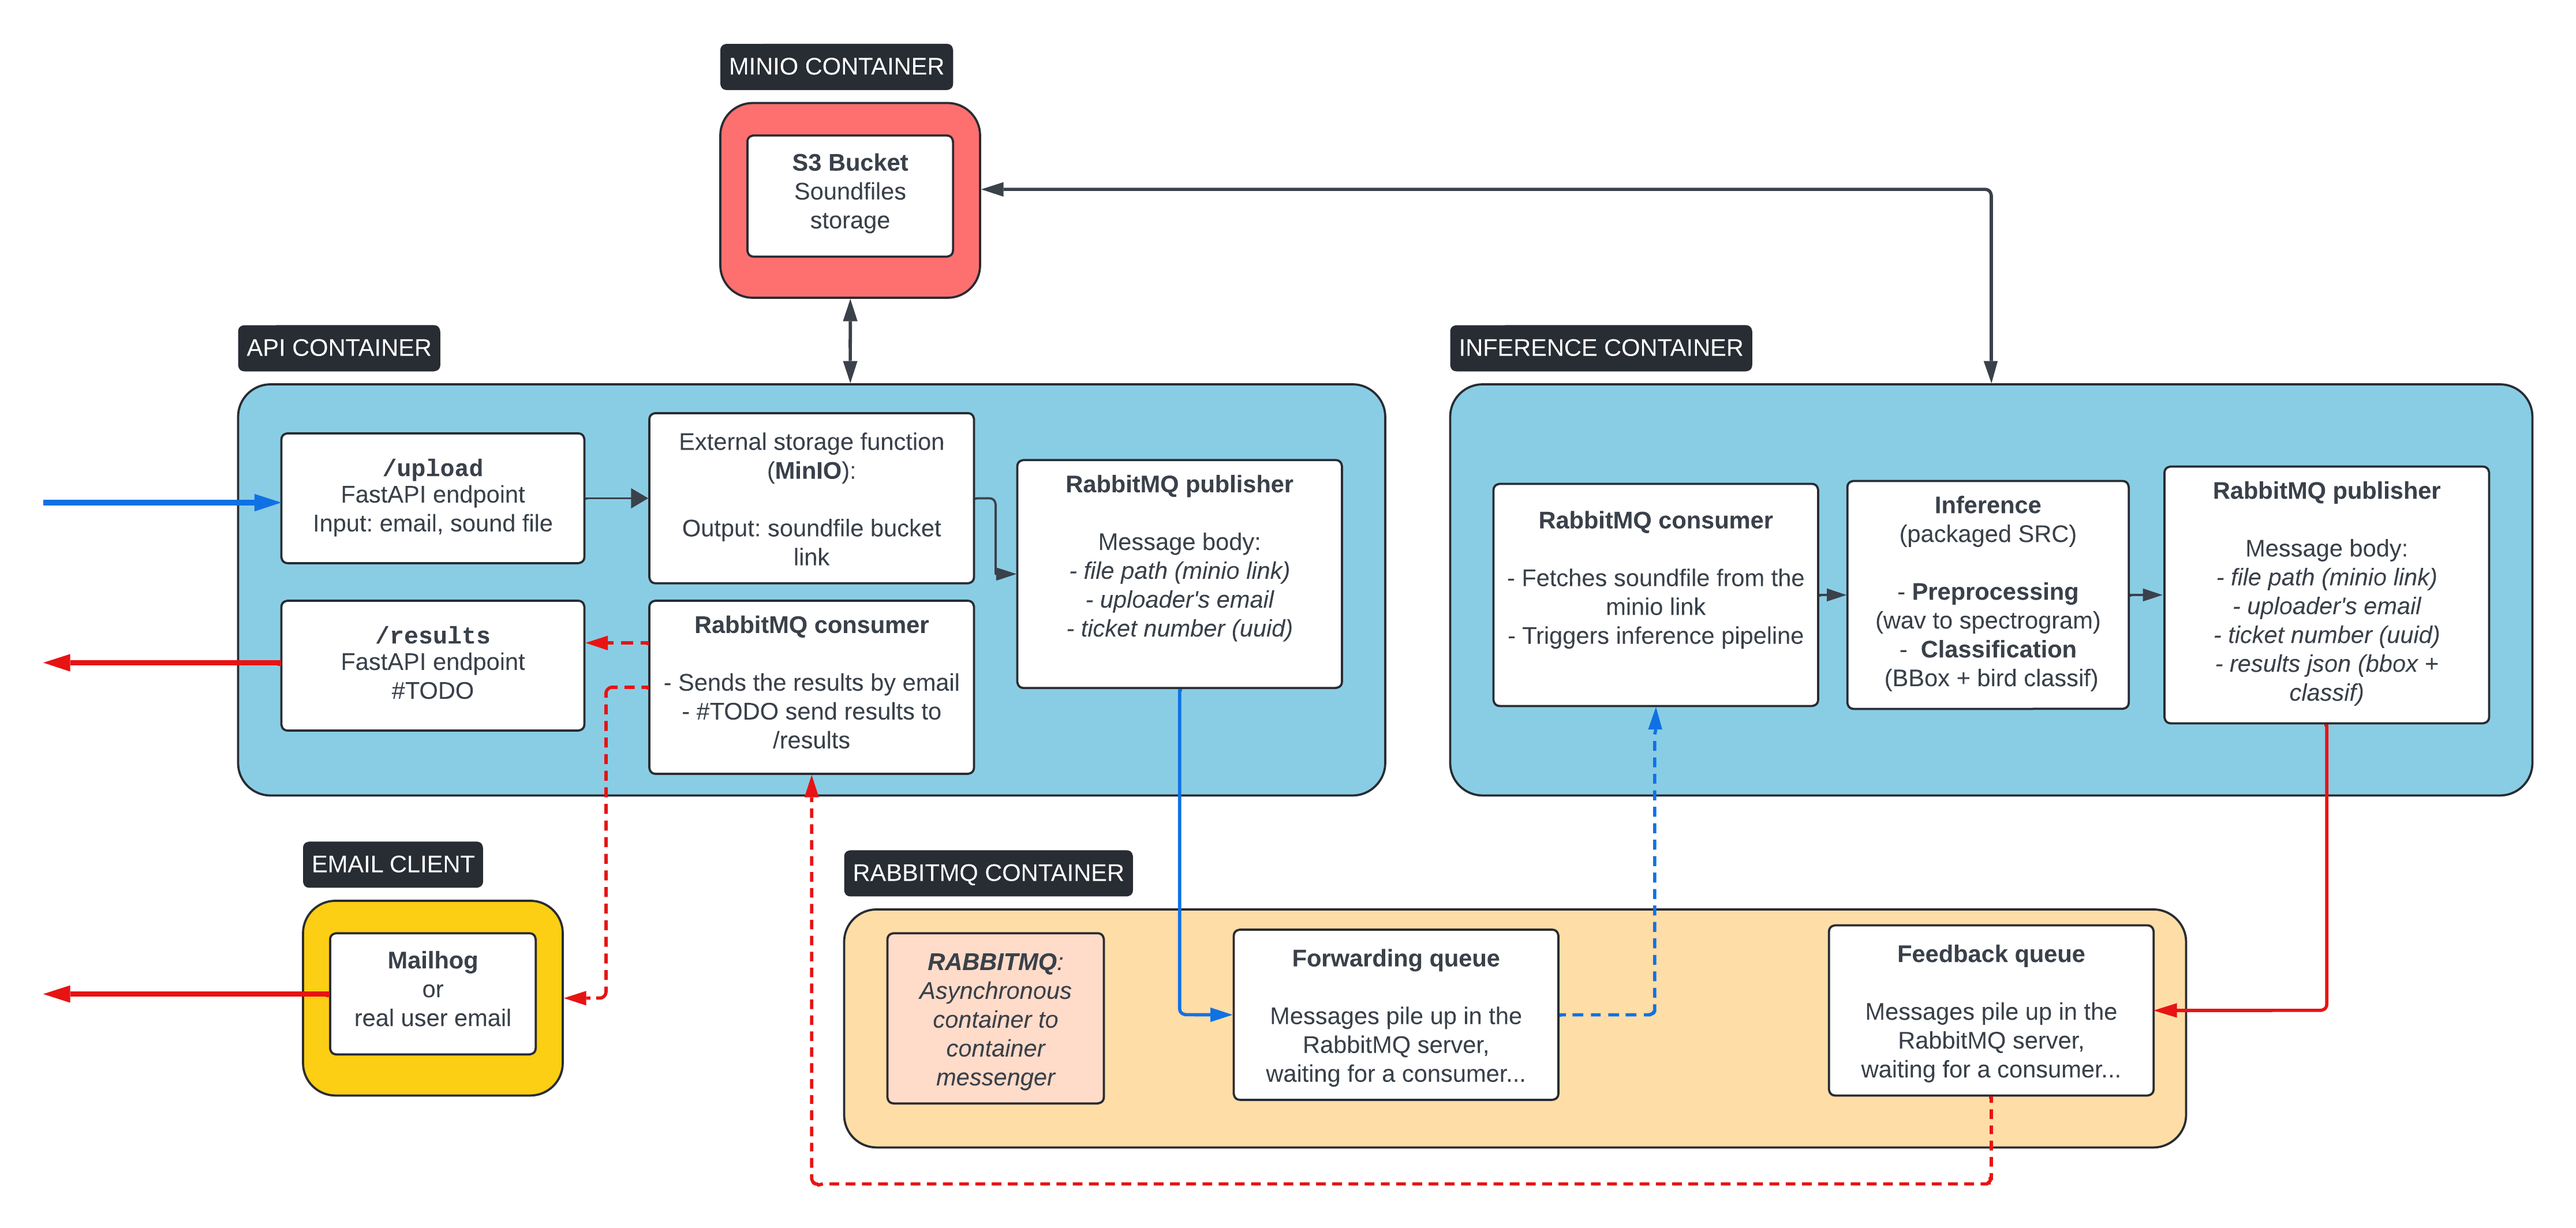
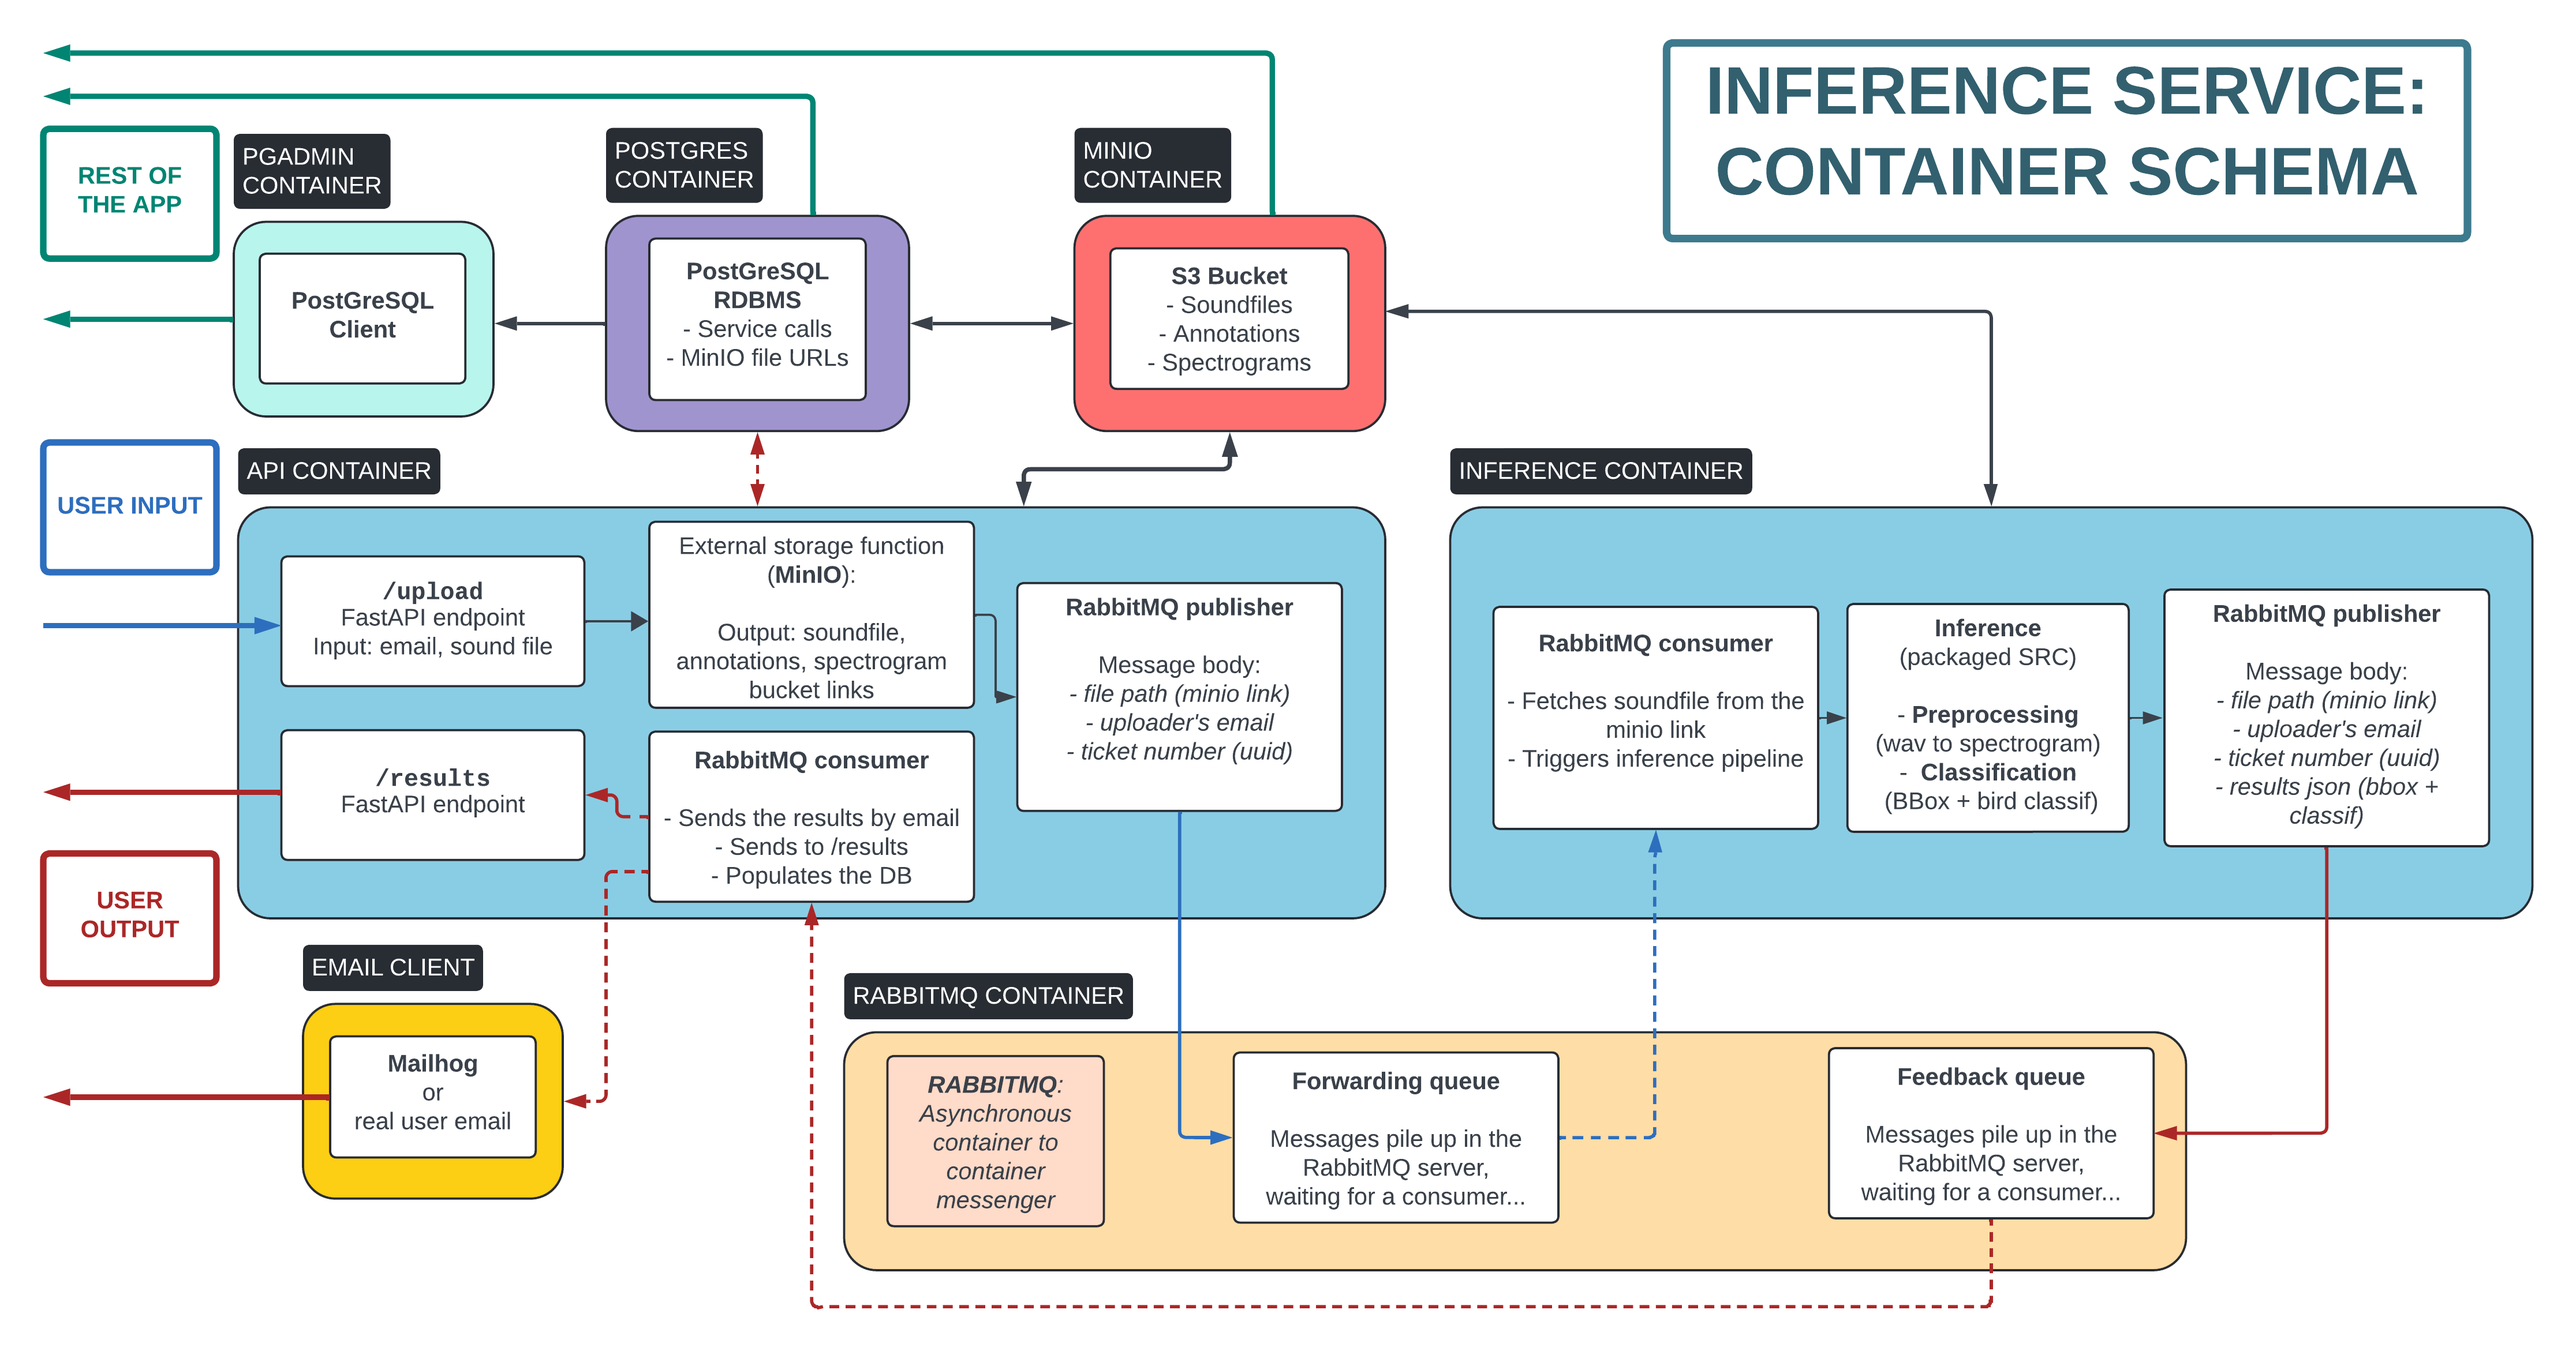
added screen captures and updated the readme.md

diff --git a/app/app_utils/file_schemas.py b/app/app_utils/file_schemas.py
@@ -32,7 +32,7 @@ class UploadRecord(BaseModel):
         """Generate a spectrogram filename based on filetype and timestamp."""
         timestamp_str = self.timestamp.strftime("%Y%m%d%H%M%S%f")
         base_name = os.path.splitext(self.file.filename)[0]
-        return f"{timestamp_str}_{base_name}_spectro.png"
+        return f"{timestamp_str}_{base_name}_spectro.pt"
 
     def get_audio_path(self, root_folder: str) -> str:
         """Generate the path for the audio file."""

diff --git a/app/api/models.py b/app/api/models.py
@@ -8,6 +8,7 @@ class Bird(Base):
     id: Mapped[int] = mapped_column(Integer, primary_key=True)
     name: Mapped[str] = mapped_column(String, nullable=False)
 
+
 class ServiceCall(Base):
     __tablename__ = 'service_calls'
     

diff --git a/README.md b/README.md
@@ -27,7 +27,10 @@ Consists of two main services: an API service for handling user requests and an 
 - RabbitMQ: Enables asynchronous communication between the API and inference services.
 - MinIO: Provides lightweight file storage for WAV files and classification results.
 - Mailhog: Facilitates email testing during development.
+- PostgreSQL: Stores metadata about the service calls and classification results.
+- PgAdmin: Provides a web-based interface for managing the PostgreSQL database.
 
+![Alt Text](docs/readme/db_schema.png)
 
 ## **Installation**
 
@@ -165,6 +168,17 @@ A web-based interface for monitoring and managing RabbitMQ message queues and th
 - Go to the `Queues` tab: find info about message traffic for both forwarding and feedback queues
 - You can inspect the message bodies with the button `Get Message(s)`
 
+### PgAdmin
+
+A web-based interface for managing the PostgreSQL database.
+
+- In your browser, go to `localhost:5051`
+- Default user / password are `admin@example.com` / `password`
+- Change these values in the `.env` file if needed
+- Instructions to connect:
+![Alt Text](docs/readme/pgadmin_master_pwd.png)  ![Alt Text](docs/readme/pgadmin_connection.png)   
+![Alt Text](docs/readme/pgadmin_outline.png)  ![Alt Text](docs/readme/pgadmin_view_table.png)
+
 
 ### Shutdown / teardown services
 Shutdown
@@ -186,16 +200,43 @@ make teardown
 Api container startup
 ```css
 ...
+api-1        | INFO:     Started server process [10]
+api-1        | INFO:     Waiting for application startup.
+api-1        | INFO:root:Initializing MinIO client...
+api-1        | INFO:root:Checking if bucket exists...
+api-1        | INFO:root:Checking if bucket 'mediae' exists...
+api-1        | INFO:root:Bucket 'mediae' already exists.
+api-1        | INFO:root:Connecting to RabbitMQ...
+api-1        | INFO:root:Checking RabbitMQ connection
+api-1        | INFO:root:RabbitMQ connection is None or closed. Establishing a new connection.
+api-1        | INFO:root:Attempting to connect to RabbitMQ (Attempt 1/5)
+api-1        | INFO:pika.adapters.utils.connection_workflow:Pika version 1.3.1 connecting to ('172.28.0.2', 5672)
+api-1        | INFO:pika.adapters.utils.io_services_utils:Socket connected: <socket.socket fd=15, family=AddressFamily.AF_INET, type=SocketKind.SOCK_STREAM, proto=6, laddr=('172.28.0.7', 33174), raddr=('172.28.0.2', 5672)>
+api-1        | INFO:pika.adapters.utils.connection_workflow:Streaming transport linked up: (<pika.adapters.utils.io_services_utils._AsyncPlaintextTransport object at 0x720a170b02b0>, _StreamingProtocolShim: <SelectConnection PROTOCOL transport=<pika.adapters.utils.io_services_utils._AsyncPlaintextTransport object at 0x720a170b02b0> params=<ConnectionParameters host=rabbitmq port=5672 virtual_host=/ ssl=False>>).
+api-1        | INFO:pika.adapters.utils.connection_workflow:AMQPConnector - reporting success: <SelectConnection OPEN transport=<pika.adapters.utils.io_services_utils._AsyncPlaintextTransport object at 0x720a170b02b0> params=<ConnectionParameters host=rabbitmq port=5672 virtual_host=/ ssl=False>>
+api-1        | INFO:pika.adapters.utils.connection_workflow:AMQPConnectionWorkflow - reporting success: <SelectConnection OPEN transport=<pika.adapters.utils.io_services_utils._AsyncPlaintextTransport object at 0x720a170b02b0> params=<ConnectionParameters host=rabbitmq port=5672 virtual_host=/ ssl=False>>
+api-1        | INFO:pika.adapters.blocking_connection:Connection workflow succeeded: <SelectConnection OPEN transport=<pika.adapters.utils.io_services_utils._AsyncPlaintextTransport object at 0x720a170b02b0> params=<ConnectionParameters host=rabbitmq port=5672 virtual_host=/ ssl=False>>
+api-1        | INFO:root:Successfully connected to RabbitMQ
+api-1        | INFO:root:RabbitMQ connection established.
 api-1        | INFO:pika.adapters.blocking_connection:Created channel=1
 api-1        | INFO:root:Declaring queue: api_to_inference
 api-1        | INFO:root:Declaring queue: inference_to_api
-api-1        | INFO:     Started server process [11]
-api-1        | INFO:     Waiting for application startup.
 api-1        | INFO:     Application startup complete.
 
 ```
 Inference container startup
 ```css
+inference-1  | INFO:matplotlib.font_manager:generated new fontManager
+inference-1  | INFO:root:Checking RabbitMQ connection
+inference-1  | INFO:root:RabbitMQ connection is None or closed. Establishing a new connection.
+inference-1  | INFO:root:Attempting to connect to RabbitMQ (Attempt 1/5)
+inference-1  | INFO:pika.adapters.utils.connection_workflow:Pika version 1.3.1 connecting to ('172.28.0.2', 5672)
+inference-1  | INFO:pika.adapters.utils.io_services_utils:Socket connected: <socket.socket fd=6, family=AddressFamily.AF_INET, type=SocketKind.SOCK_STREAM, proto=6, laddr=('172.28.0.8', 59106), raddr=('172.28.0.2', 5672)>
+inference-1  | INFO:pika.adapters.utils.connection_workflow:Streaming transport linked up: (<pika.adapters.utils.io_services_utils._AsyncPlaintextTransport object at 0x71604d202860>, _StreamingProtocolShim: <SelectConnection PROTOCOL transport=<pika.adapters.utils.io_services_utils._AsyncPlaintextTransport object at 0x71604d202860> params=<ConnectionParameters host=rabbitmq port=5672 virtual_host=/ ssl=False>>).
+inference-1  | INFO:pika.adapters.utils.connection_workflow:AMQPConnector - reporting success: <SelectConnection OPEN transport=<pika.adapters.utils.io_services_utils._AsyncPlaintextTransport object at 0x71604d202860> params=<ConnectionParameters host=rabbitmq port=5672 virtual_host=/ ssl=False>>
+inference-1  | INFO:pika.adapters.utils.connection_workflow:AMQPConnectionWorkflow - reporting success: <SelectConnection OPEN transport=<pika.adapters.utils.io_services_utils._AsyncPlaintextTransport object at 0x71604d202860> params=<ConnectionParameters host=rabbitmq port=5672 virtual_host=/ ssl=False>>
+inference-1  | INFO:pika.adapters.blocking_connection:Connection workflow succeeded: <SelectConnection OPEN transport=<pika.adapters.utils.io_services_utils._AsyncPlaintextTransport object at 0x71604d202860> params=<ConnectionParameters host=rabbitmq port=5672 virtual_host=/ ssl=False>>
+inference-1  | INFO:root:Successfully connected to RabbitMQ
 inference-1  | INFO:root:RabbitMQ connection established.
 inference-1  | INFO:pika.adapters.blocking_connection:Created channel=1
 inference-1  | INFO:root:Declaring queue: inference_to_api
@@ -204,35 +245,51 @@ inference-1  | INFO:__main__:Waiting for messages from queue: api_to_inference
 
 Upload -> inference pipeline -> email
 ```css
-...
-api-1        | INFO:root:File 'Turdus_merlula.wav' written to MinIO bucket 'mediae' successfully.
-...
-api-1        | INFO:root:Published message: {'minio_path': 'mediae/Turdus_merlula.wav', 'email': 'user@example.com', 'ticket_number': 'c0ea90'}
-api-1        | INFO:     172.24.0.1:34770 - "GET /upload-dev?email=user%40example.com HTTP/1.1" 200 OK
-inference-1  | INFO:__main__:Received message from RabbitMQ: MinIO path=mediae/Turdus_merlula.wav, Email=user@example.com, Ticket number=c0ea90
-inference-1  | INFO:__main__:WAV file downloaded from MinIO: Turdus_merlula.wav
-inference-1  | INFO:model_serve.model_serve:Weights path: {self.weights_path}
-inference-1  | INFO:model_serve.model_serve:Reversed birds dict: {self.reverse_bird_dict}
+api-1        | ERROR:root:File audio/20240621124851231798_merle1.wav does not exist in MinIO. Uploading... Error: S3 operation failed; code: NoSuchKey, message: Object does not exist, resource: /mediae/audio/20240621124851231798_merle1.wav, request_id: 17DB05DD663787EB, host_id: dd9025bab4ad464b049177c95eb6ebf374d3b3fd1af9251148b658df7ac2e3e8, bucket_name: mediae, object_name: audio/20240621124851231798_merle1.wav
+api-1        | INFO:root:Writing file 'audio/20240621124851231798_merle1.wav' to MinIO bucket 'mediae'...
+api-1        | INFO:root:File 'audio/20240621124851231798_merle1.wav' written to MinIO bucket 'mediae' successfully.
+api-1        | INFO:root:Publishing message to RabbitMQ...
+api-1        | INFO:root:Preparing to publish message to queue: api_to_inference
+api-1        | INFO:root:Published message: {'ticket_number': '861ad9', 'email': 'coco@example.com', 'soundfile_minio_path': 'audio/20240621124851231798_merle1.wav', 'annotations_minio_path': 'annotations/20240621124851231798_merle1_annot.txt', 'spectrogram_minio_path': 'spectrograms/20240621124851231798_merle1_spectro.png'}
+api-1        | INFO:     172.27.0.1:58410 - "POST /upload HTTP/1.1" 200 OK
+inference-1  | INFO:__main__:Received message from RabbitMQ: MinIO path=audio/20240621124851231798_merle1.wav, Email=coco@example.com, Ticket number=861ad9
+inference-1  | INFO:__main__:WAV file downloaded from MinIO: 20240621124851231798_merle1.wav
+inference-1  | INFO:model_serve.model_serve:Weights path: models/detr_noneg_100q_bs20_r50dc5
+inference-1  | INFO:model_serve.model_serve:Reversed birds dict: 146
 inference-1  | INFO:model_serve.model_serve:Loading model...
 inference-1  | INFO:model_serve.model_serve:Model loaded successfully
-inference-1  | INFO:model_serve.model_serve:Starting run_detection on Turdus_merlula.wav...
-100%|██████████| 1/1 [00:00<00:00,  2.15it/s]
-inference-1  | INFO:model_serve.model_serve:[fp]:
-inference-1  | <src.features.prepare_dataset.File_Processor object at 0x7385bc1dfe20>
-inference-1  |
-inference-1  |
-inference-1  | INFO:model_serve.model_serve:[output]:
-inference-1  | {'Turdus merula': {'bbox_coord': [[552, 182, 629, 258]], 'scores': [0.9958606362342834]}}
-...
-inference-1  | INFO:root:File 'Turdus_merlula.json' written to MinIO bucket 'mediae' successfully.
+inference-1  | INFO:model_serve.model_serve:Starting run_detection on 20240621124851231798_merle1.wav...
+100%|██████████| 1/1 [00:00<00:00,  1.77it/s]
+inference-1  | INFO:model_serve.model_serve:[fp]: 
+inference-1  | <src.features.prepare_dataset.File_Processor object at 0x7827c235ada0>
+inference-1  | 
+inference-1  | 
+inference-1  | INFO:model_serve.model_serve:[lines]: 
+inference-1  | ['1.6522448979591837\t1.8827210884353742\tTurdus merula\n\\\t6060.599999999999\t8591.4\n']
+inference-1  | INFO:model_serve.model_serve:[SPECTROGRAM]: [(0, tensor([[0.5419, 0.5937, 0.6186,  ..., 0.6333, 0.6421, 0.6583],
+inference-1  |         [0.5488, 0.5918, 0.6111,  ..., 0.5962, 0.6114, 0.6527],
+inference-1  |         [0.5717, 0.5998, 0.6125,  ..., 0.6234, 0.6294, 0.6422],
+inference-1  |         ...,
+inference-1  |         [0.3779, 0.4416, 0.4943,  ..., 0.6785, 0.6680, 0.6457],
+inference-1  |         [0.4910, 0.5253, 0.5571,  ..., 0.6122, 0.5914, 0.5851],
+inference-1  |         [0.5308, 0.5438, 0.5483,  ..., 0.5498, 0.5219, 0.5271]]))]
+inference-1  | INFO:__main__:Classification output: ['1.6522448979591837\t1.8827210884353742\tTurdus merula\n\\\t6060.599999999999\t8591.4\n']
+inference-1  | INFO:__main__:Annotation content: 1.6522448979591837     1.8827210884353742      Turdus merula
+inference-1  | \        6060.599999999999       8591.4
+inference-1  | 
+inference-1  | INFO:root:Writing file 'annotations/20240621124851231798_merle1_annot.txt' to MinIO bucket 'mediae'...
+inference-1  | INFO:root:File 'annotations/20240621124851231798_merle1_annot.txt' written to MinIO bucket 'mediae' successfully.
+inference-1  | INFO:root:Writing file 'spectrograms/20240621124851231798_merle1_spectro.png' to MinIO bucket 'mediae'...
+inference-1  | INFO:root:File 'spectrograms/20240621124851231798_merle1_spectro.png' written to MinIO bucket 'mediae' successfully.
 inference-1  | INFO:root:Preparing to publish message to queue: inference_to_api
-inference-1  | INFO:root:Published message: {'wav_minio_path': 'mediae/Turdus_merlula.wav', 'json_minio_path': 'Turdus_merlula.json', 'email': 'user@example.com', 'ticket_number': 'c0ea90'}
-api-1        | INFO:root:Fetching file 'Turdus_merlula.json' from MinIO bucket 'mediae'...
-api-1        | INFO:root:File 'Turdus_merlula.json' fetched from MinIO bucket 'mediae' and saved to '/tmp/tmpukc2ftj7' successfully.
+inference-1  | INFO:root:Published message: {'ticket_number': '861ad9', 'email': 'user@example.com', 'soundfile_minio_path': 'audio/20240621124851231798_merle1.wav', 'annotations_minio_path': 'annotations/20240621124851231798_merle1_annot.txt', 'spectrogram_minio_path': 'spectrograms/20240621124851231798_merle1_spectro.png', 'classification_score': None}
 ...
-api-1        |
-api-1        | Email sent successfully to user@example.com for ticket #c0ea90
-api-1        |
+api-1        | INFO:root:
+mailhog-1    |         "multipart/mixed; boundary=\"===============7557025729875576260==\""
+api-1        | 
+api-1        | Email sent successfully to user@example.comfor ticket #861ad9
+api-1        | 
+api-1        | 
 ```  
 
 <br><br><br>  
